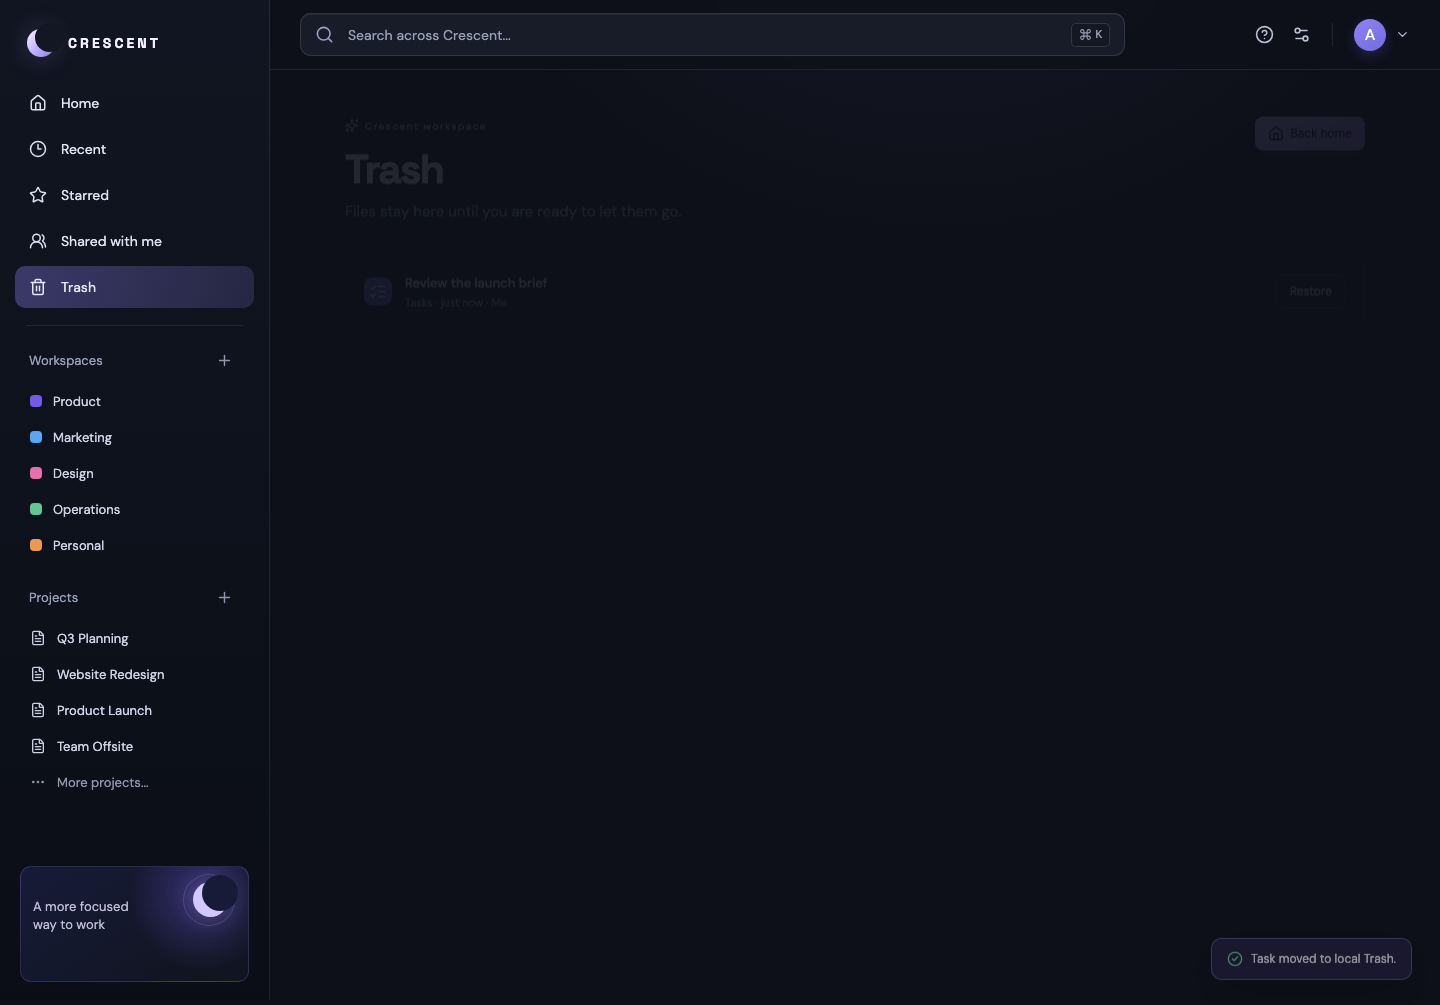
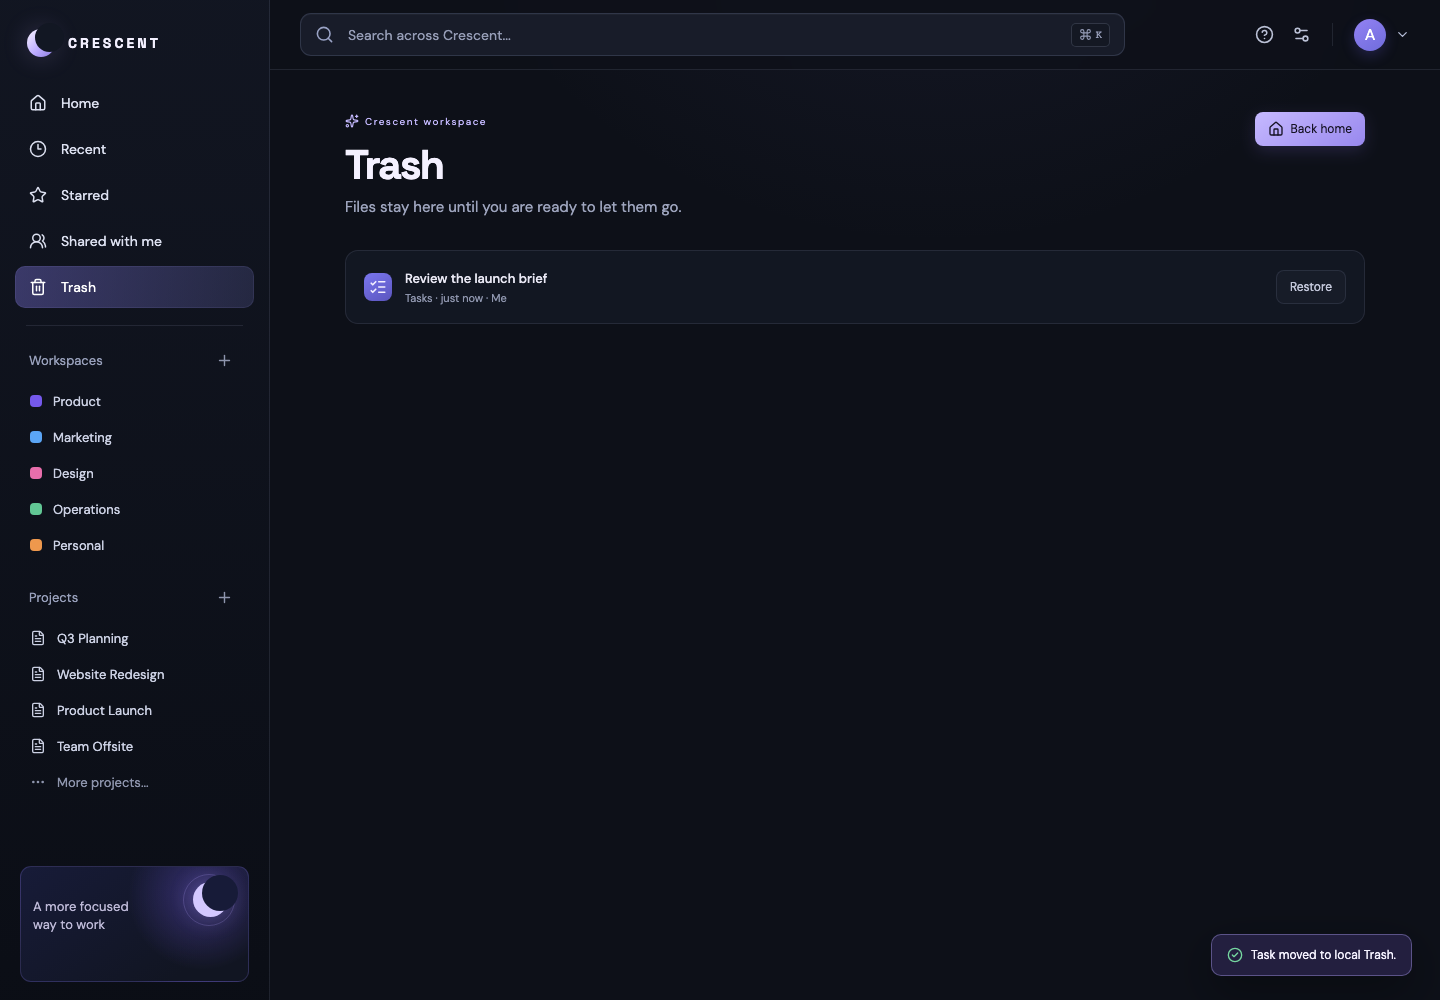
docs: clarify trash preview

diff --git a/README.md b/README.md
@@ -4,7 +4,7 @@ An all-in-one productivity workspace built to keep the work in one calm, consist
 
 ## Current release
 
-**v0.1.47 — Preview index catches up**
+**v0.1.48 — Trash preview clarified**
 
 The first release establishes the Crescent product shell and a local-first suite experience:
 
@@ -47,6 +47,7 @@ The first release establishes the Crescent product shell and a local-first suite
 - Updated the committed visual preview index to the current release and documented the latest Sheets and Forms captures
 - Added a committed Trash screenshot showing a recoverable deleted task
 - Updated the visual archive header to match the latest committed preview set
+- Re-captured the Trash preview after the page animation settled for a clearer GitHub review image
 - Home’s Continue working and Recent shelves now use current local Docs, Sheets, Slides, and Notes titles
 - Drive’s Recent files shelf mirrors the same live workspace records, so creating a draft no longer leaves stale demo cards behind
 - Settings can download a versioned JSON backup of the local workspace and restore it later on the same device

diff --git a/CHANGELOG.md b/CHANGELOG.md
@@ -1,5 +1,20 @@
 # Changelog
 
+## v0.1.48 — Trash preview clarified
+
+Published September 9, 2026.
+
+### Changed
+
+- Re-captured `docs/preview/trash.png` after the page-enter animation settled, improving readability of the Restore state.
+- Updated the visual preview index to v0.1.48.
+
+### Verification
+
+- Visually reviewed the clearer Trash screenshot with its Restore action and local toast.
+- `npm run lint` passes with zero warnings.
+- `npm run build` passes.
+
 ## v0.1.47 — Preview index catches up
 
 Published September 9, 2026.

diff --git a/docs/preview/README.md b/docs/preview/README.md
@@ -1,4 +1,4 @@
-# v0.1.46 visual preview
+# v0.1.48 visual preview
 
 These screenshots are committed with Crescent milestones so the product can be reviewed directly from GitHub. The live preview is deployed from `main` through GitHub Pages when Pages is enabled for the repository.
 
